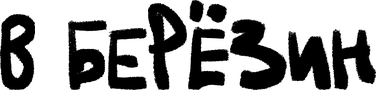
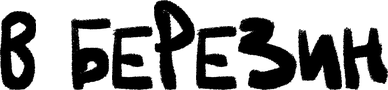
Fix director surname: Берёзин → Березин (no yo)

diff --git a/index.html b/index.html
@@ -8,7 +8,7 @@
 <link rel="preconnect" href="https://fonts.googleapis.com">
 <link rel="preconnect" href="https://fonts.gstatic.com" crossorigin>
 <link href="https://fonts.googleapis.com/css2?family=Inter:wght@400;500;600;700;900&family=Space+Mono:wght@400;700&display=swap" rel="stylesheet">
-<link rel="stylesheet" href="styles.css?v=4">
+<link rel="stylesheet" href="styles.css?v=5">
 </head>
 <body>
 
@@ -79,7 +79,7 @@
       <dl class="concept-meta">
         <dt class="kicker" data-i18n="m_director">"РЕЖИССЁРЫ"</dt>
         <dd class="hlblock dirs">
-          <img src="assets/hero/d_berezin_ru.png" alt="В. Берёзин" class="hl-only-ru">
+          <img src="assets/hero/d_berezin_ru.png" alt="В. Березин" class="hl-only-ru">
           <img src="assets/hero/d_golovanov_ru.png" alt="Д. Голованов" class="hl-only-ru">
           <img src="assets/hero/d_berezin.png" alt="V. Berezin" class="hl-only-en">
           <img src="assets/hero/d_golovanov.png" alt="D. Golovanov" class="hl-only-en">
@@ -293,7 +293,7 @@
       <div class="prod-col">
         <h4 class="kicker" data-i18n="prod_team_h">"КОМАНДА"</h4>
         <ul class="prodlist">
-          <li data-i18n="team_1">Режиссёры — Василий Берёзин, Даниил Голованов</li>
+          <li data-i18n="team_1">Режиссёры — Василий Березин, Даниил Голованов</li>
           <li data-i18n="team_2">Артист — Павел Фахрутдинов</li>
           <li data-i18n="team_3">Оператор — TBD</li>
           <li data-i18n="team_4">Художник — TBD</li>

diff --git a/script.js b/script.js
@@ -35,7 +35,7 @@ const I18N = {
     need_4: "Камера + оператор",
     need_5: "Грим клоуна — тихий, сухой",
     need_6: "Реквизит — бумаги, тазик, зеркало",
-    team_1: "Режиссёры — Василий Берёзин, Даниил Голованов",
+    team_1: "Режиссёры — Василий Березин, Даниил Голованов",
     team_2: "Артист — Павел Фахрутдинов",
     team_3: "Оператор — TBD",
     team_4: "Художник — TBD",

diff --git a/README.md b/README.md
@@ -19,7 +19,7 @@
 ```
 
 ## Контакты
-- Режиссёр — Василий Берёзин
+- Режиссёр — Василий Березин
 - Артист — Павел Фахрутдинов
 
 ## Лицензия
